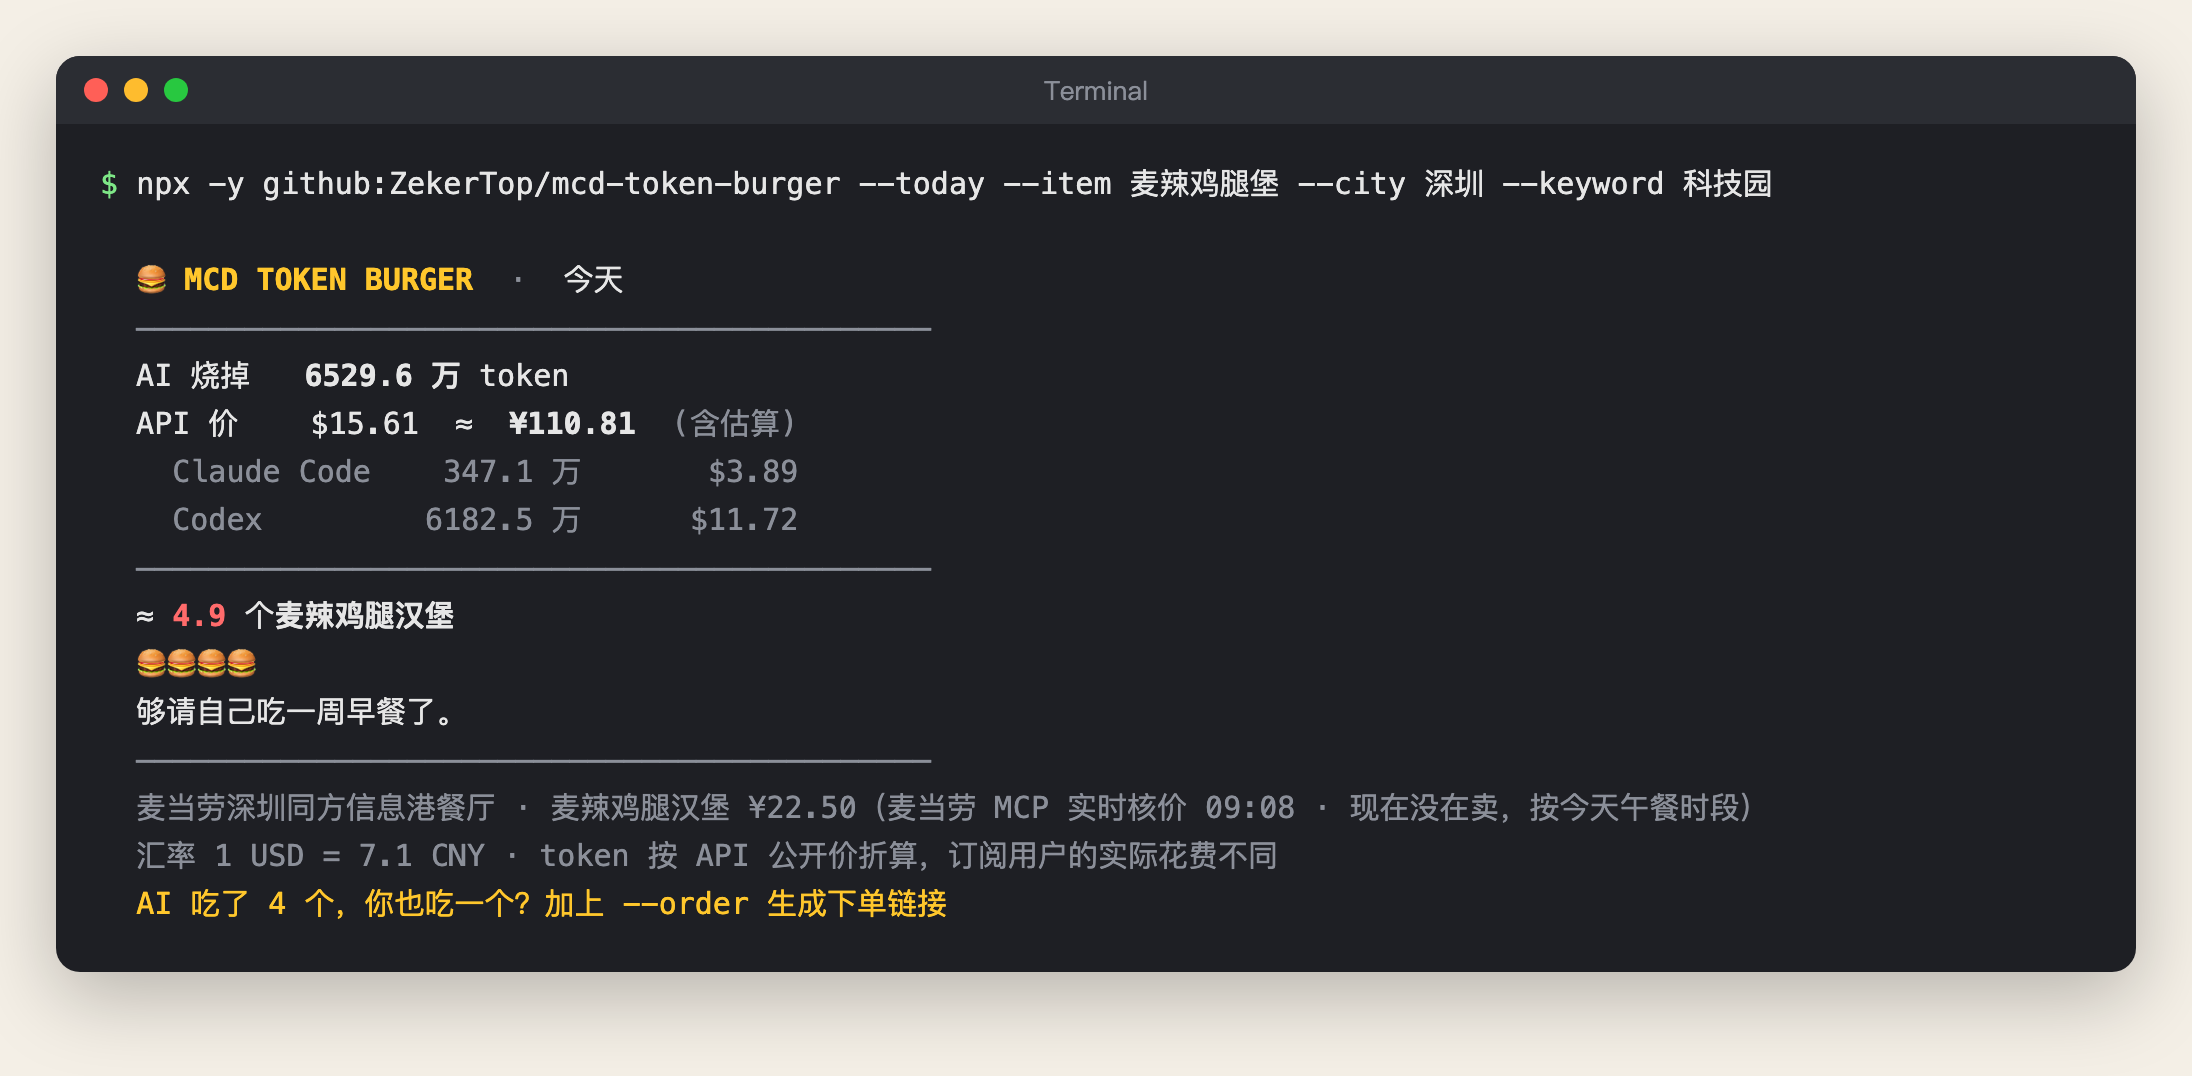
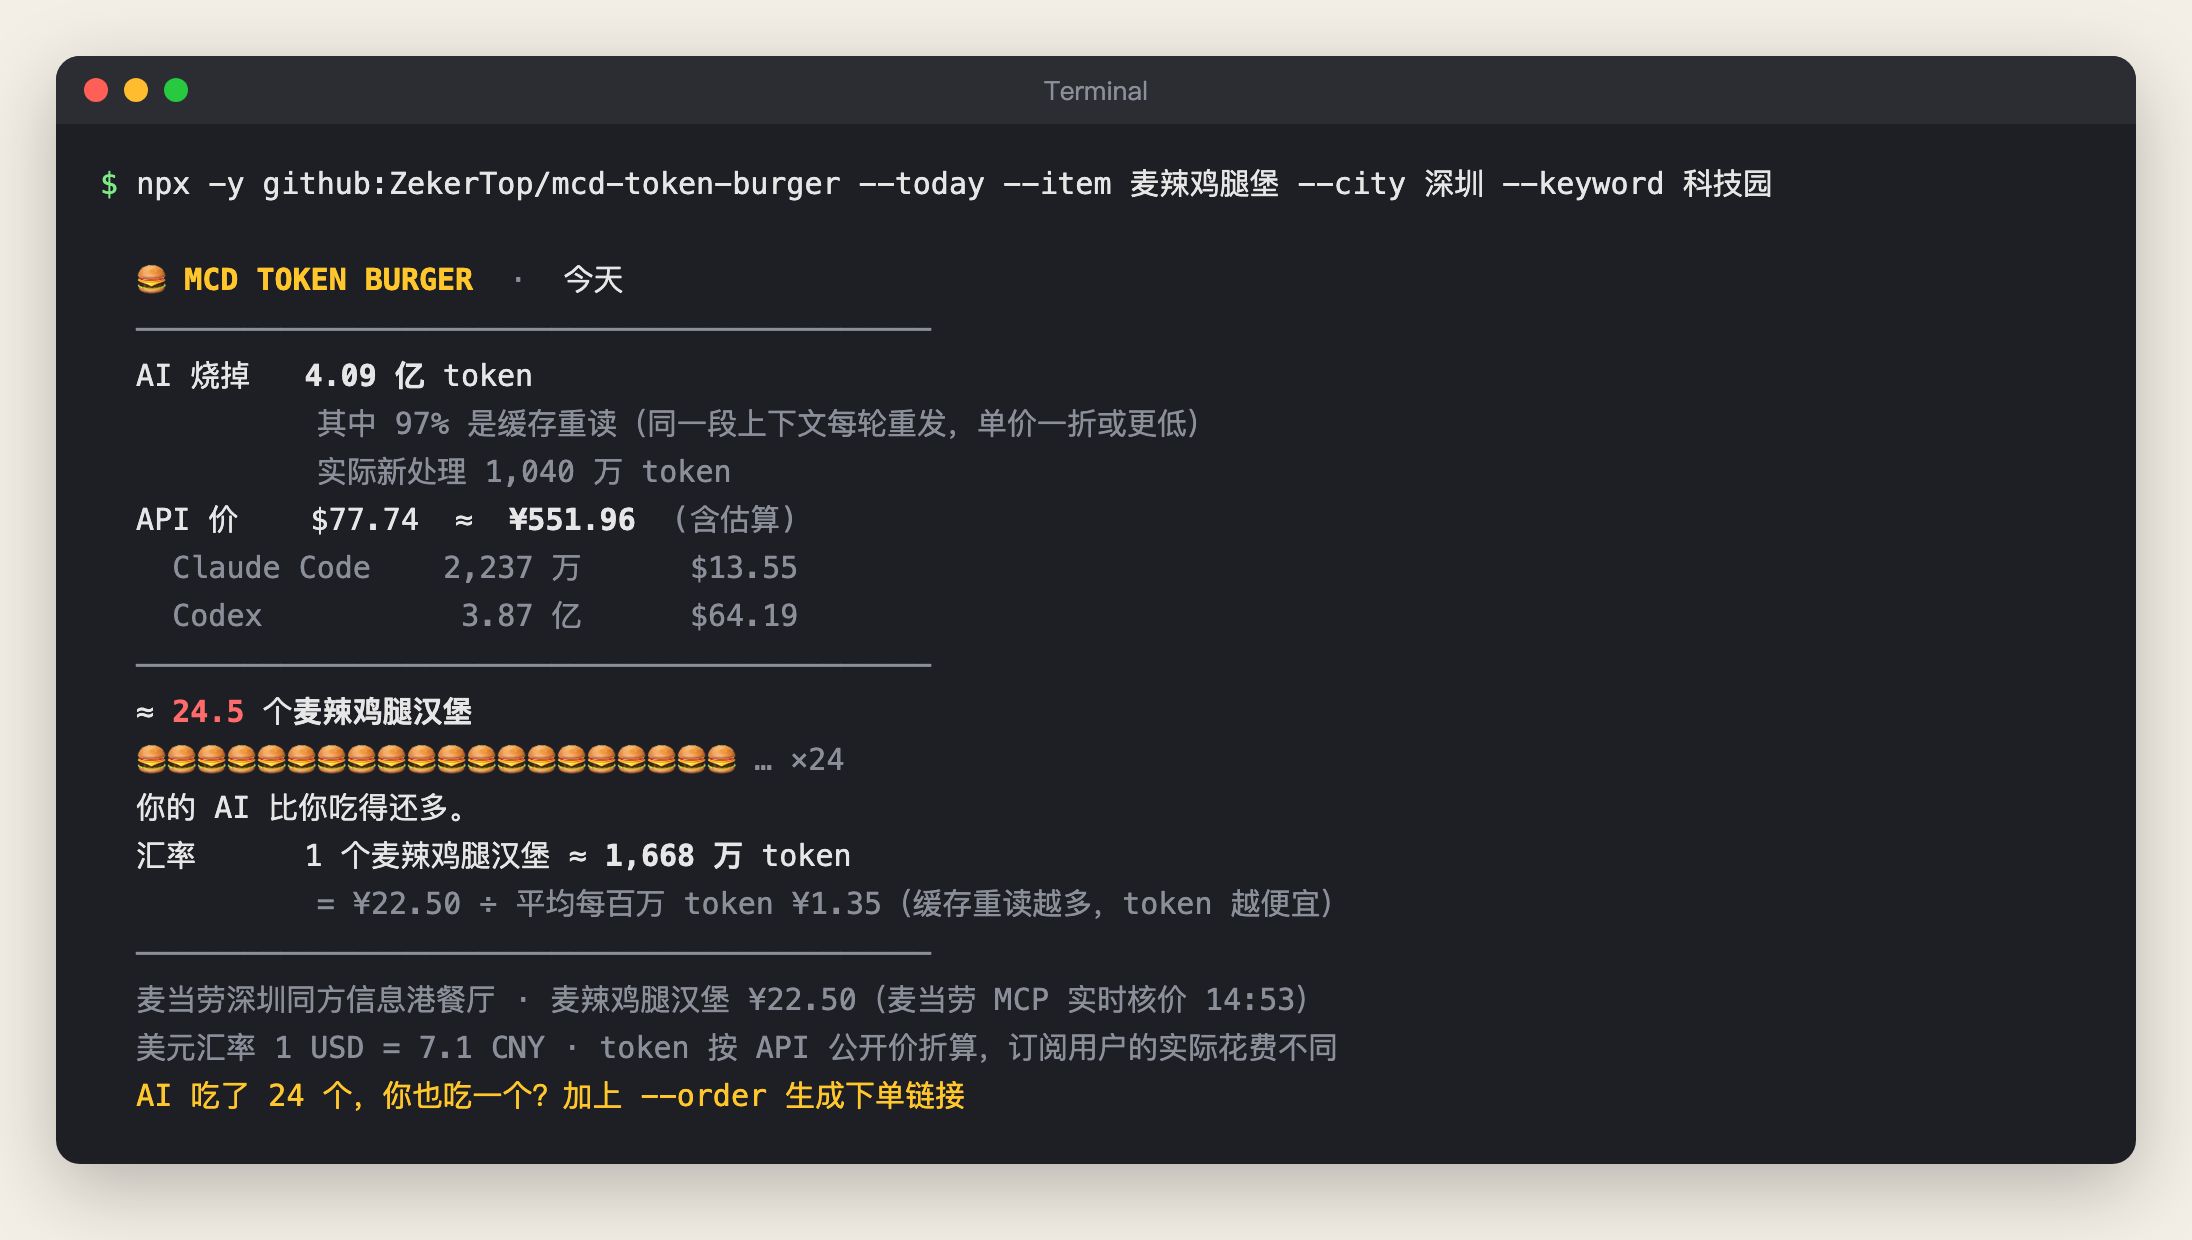
docs: README 说明 token 汉堡汇率怎么算，截图换成新卡片

Changed region(s): [[0.0, 0.2147, 0.9927, 0.9507], [0.031, 0.1227, 0.8066, 0.184], [0.031, 0.0307, 0.9927, 0.092]]

diff --git a/README.md b/README.md
@@ -221,9 +221,9 @@ npx -y github:ZekerTop/mcd-token-burger --city 深圳 --keyword 科技园 --orde
 汇率 = 巨无霸到手价 ÷ 平均每 token 的 API 价
 ```
 
-作者本机最近 7 天的数据：23.99 亿 token 按 API 价约 ¥4,661.93，平均每百万 token ¥1.94；巨无霸 ¥25.50，所以 1 个巨无霸 ≈ 1,312 万 token。
+作者本机最近 7 天的数据：24.14 亿 token 按 API 价约 ¥4,675.68，平均每百万 token ¥1.94；巨无霸 ¥25.50，所以 1 个巨无霸 ≈ 1,317 万 token。
 
-为什么动不动就几亿 token？因为 Agent 每走一步，都要把整段对话和读过的文件重新发给模型一次，同一段上下文会被重复计数几十次，这部分叫「缓存重读」。作者本机 96% 的 token 都是缓存重读，实际新处理的只有 9,904 万。缓存重读的单价只有正常输入的一折或更低，所以几亿 token 换不出几亿份的钱。卡片会把这个占比单独列出来。
+为什么动不动就几亿 token？因为 Agent 每走一步，都要把整段对话和读过的文件重新发给模型一次，同一段上下文会被重复计数几十次，这部分叫「缓存重读」。作者本机 96% 的 token 都是缓存重读，实际新处理的只有 9,929 万。缓存重读的单价只有正常输入的一折或更低，所以几亿 token 换不出几亿份的钱。卡片会把这个占比单独列出来。
 
 汇率会随两件事变化：门店价格，以及你的用法。缓存占比越高、用的模型越便宜，每个 token 就越便宜，1 个巨无霸折合的 token 也就越多。
 
